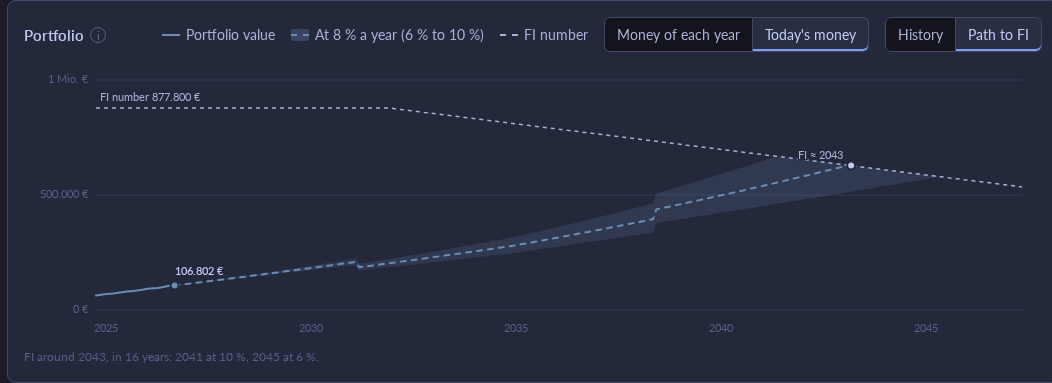
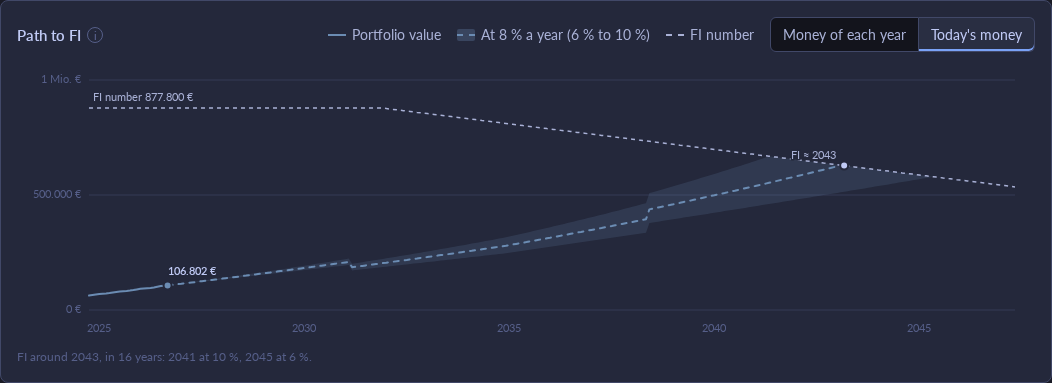
Split the dashboard's Portfolio chart into Path to FI and history
The Portfolio card switched between two views. Now each has its own
card: Path to FI first (with the money switch), Portfolio history under
it, Returns after. The view switch and its remembered choice go, and
drawResizing redraws several charts on resize.

diff --git a/README.md b/README.md
@@ -91,7 +91,7 @@ Finance window's browser profile. The data file stays.
 ## Use
 
 - **Dashboard**: the numbers on the way to FI, the milestones (Coast FI,
-  Lean FI and FI), the portfolio's history or its path to FI, the returns,
+  Lean FI and FI), the portfolio's path to FI and its history, the returns,
   the net worth with the emergency fund, and where the income goes. See
   [Dashboard numbers](#dashboard-numbers).
 - **Forecast**: when you can stop investing and stop working, from the
@@ -269,8 +269,8 @@ accounts, the net worth.
 
 ![Portfolio: the summary, two invested accounts, cash and a car loan, a one-off column, and the history](docs/portfolio.png)
 
-**Returns**, on the dashboard under the Portfolio chart, for the portfolio
-and each invested account:
+**Returns**, on the dashboard under the Portfolio history chart, for the
+portfolio and each invested account:
 
 - Time-weighted this year, over the last 1, 3 and 5 years (3 and 5 a year)
   and since the start: each month's return (the change in value less what
@@ -336,14 +336,8 @@ from which the portfolio, with the same pay-ins until then and none after,
 grows to the FI number by the retirement age: the age the Forecast page's
 Stop investing names, for the future pay-ins and nothing after Coast FI.
 
-The **Portfolio** chart has two views; the one picked last stays picked.
+Under the milestones come two charts, one under the other:
 
-- **History**: the portfolio value and what was paid in, per month. Paid in
-  starts with what each account held in its first month, then adds its
-  pay-ins, so the space between the lines is the gain (green) or loss (red)
-  since then. Hovering a month shows the gain in money and percent, and how
-  much of that month's change was paid in and how much came from the market.
-  The FI number shows once the data reaches it.
 - **Path to FI** (needs active expenses): from the latest month, the value
   goes on growing the way Time to FI counts, with planned one-offs, as a
   dashed line until it reaches the FI number, with a band from 2 points
@@ -355,10 +349,16 @@ The **Portfolio** chart has two views; the one picked last stays picked.
   long that is from this month; its ⓘ, what the FI number is by then.
   Its switch shows the projection in today's money (the default) or in the
   money of each year, as on the Forecast page.
+- **Portfolio history**: the portfolio value and what was paid in, per
+  month. Paid in starts with what each account held in its first month,
+  then adds its pay-ins, so the space between the lines is the gain (green)
+  or loss (red) since then. Hovering a month shows the gain in money and
+  percent, and how much of that month's change was paid in and how much
+  came from the market. The FI number shows once the data reaches it.
 
 ![Path to FI](docs/path-to-fi.png)
 
-**Returns** sits under the chart; see
+**Returns** sits under the history; see
 [Portfolio, net worth and returns](#portfolio-net-worth-and-returns).
 
 **Net worth**, once there is an account that is not invested, adds up the
